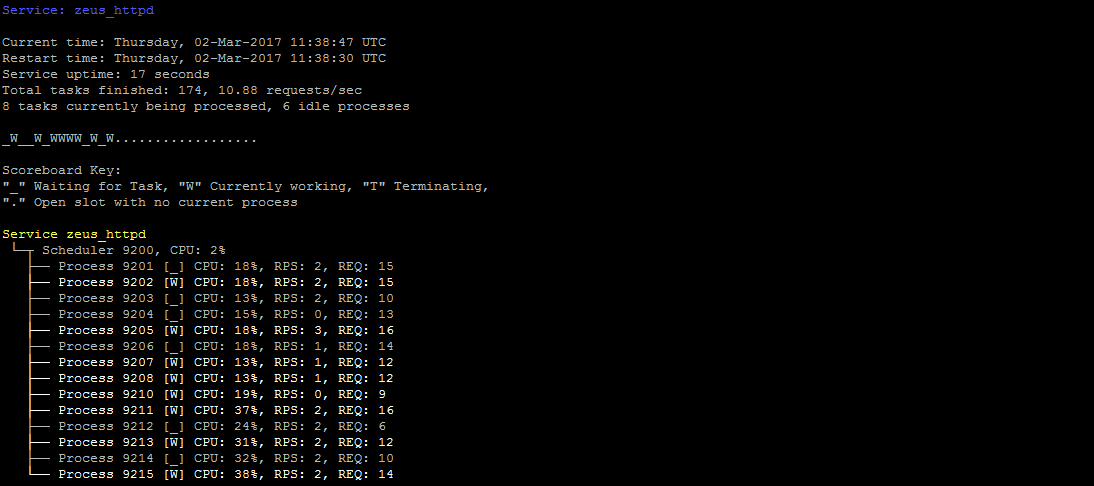
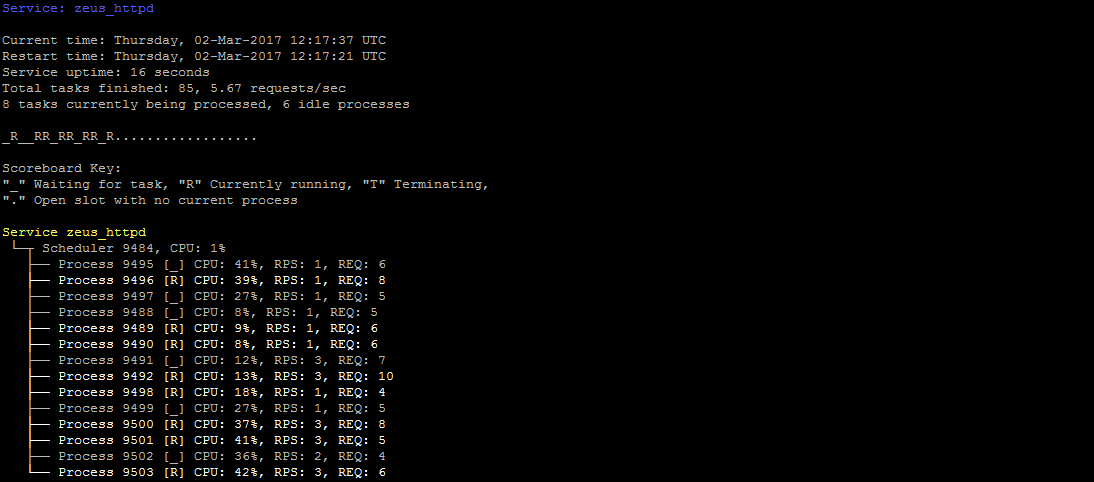
Standardized Service Status output with Proces Title statuses

diff --git a/src/Zeus/Kernel/ProcessManager/Status/SchedulerStatusView.php b/src/Zeus/Kernel/ProcessManager/Status/SchedulerStatusView.php
@@ -86,7 +86,7 @@ class SchedulerStatusView
                 case ProcessState::RUNNING:
                     ++$busyChildren;
                     ++$allChildren;
-                    $processStatusChars[$processStatus->getId()] = "W";
+                    $processStatusChars[$processStatus->getId()] = "R";
                     break;
 
                 case ProcessState::EXITING:
@@ -124,7 +124,7 @@ class SchedulerStatusView
 
         $output .= PHP_EOL;
 
-        $output .= "Scoreboard Key:" . PHP_EOL . '"_" Waiting for Task, "W" Currently working, "T" Terminating,' . PHP_EOL;
+        $output .= "Scoreboard Key:" . PHP_EOL . '"_" Waiting for task, "R" Currently running, "T" Terminating,' . PHP_EOL;
         $output .= '"." Open slot with no current process' . PHP_EOL . PHP_EOL;
 
         $lastElement = end($processList);
